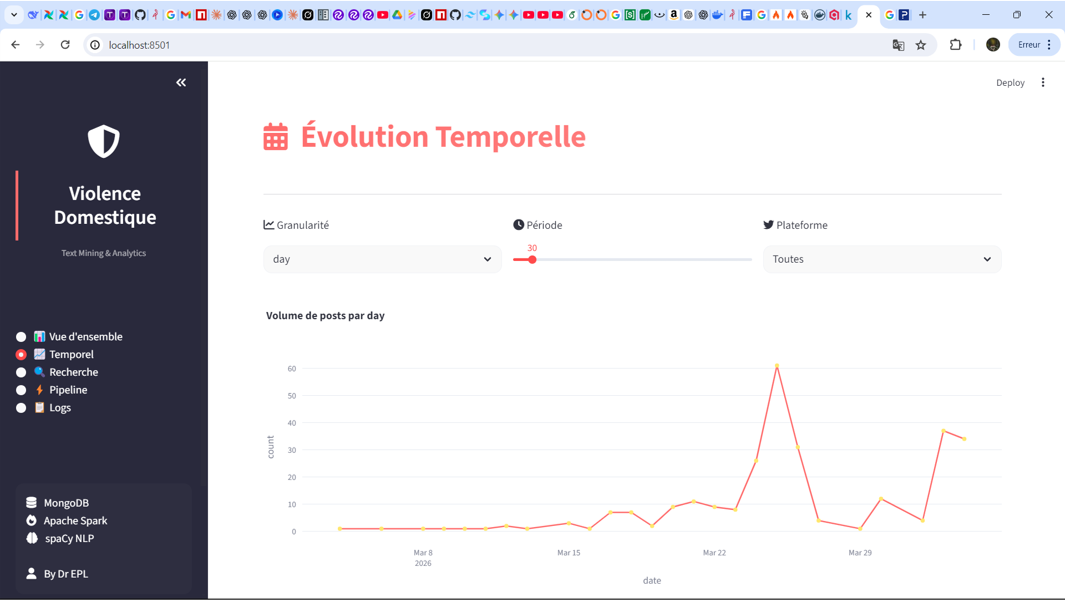
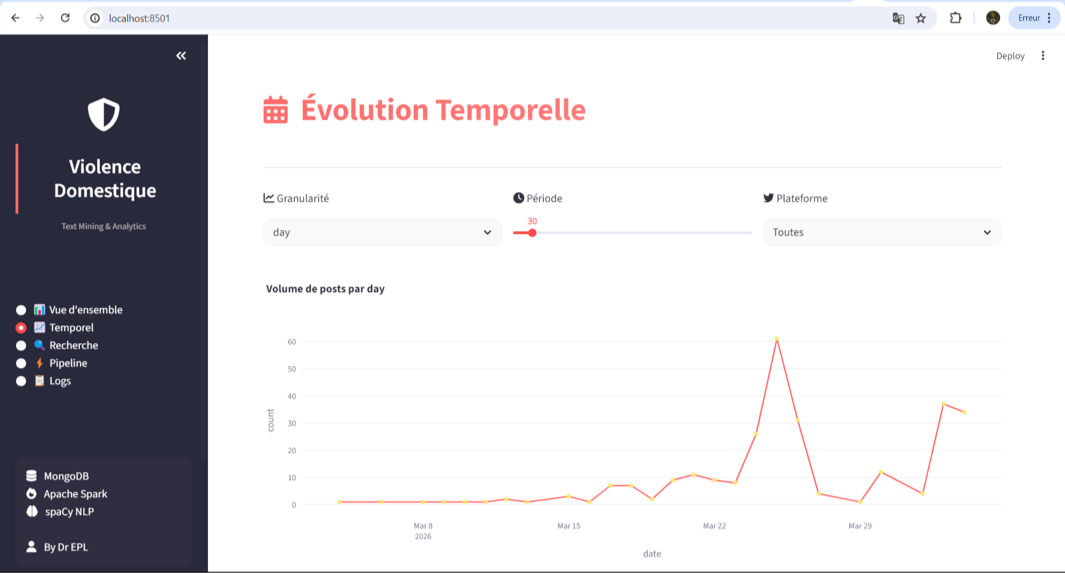
feat(ui): bilingual project pages, custom locale dropdown, hero polish
* pages/projets/[slug]: ship both locales in getStaticProps via rowToProjectBilingual so the toggle re-renders client side without a network round trip; prefetch alt locale on mount; drop teal gradient overlay; add radial halo behind the H1 for depth against animated backdrop
* Nav: replace native select with a custom dropdown (Globe icon, larger flags with ring, click outside and Escape to close, ChevronDown that rotates); preserve scroll on locale change
* CategoryBackdrop: widen mask from 45 to 78 percent so animations have breathing room; repaint 4 backdrops in light to dark grey palette with stroke and fill transitions instead of single category color
* lib/supabase: add rowToProjectBilingual helper
* assets: screenshots for systeme-rag-documents project

diff --git a/components/Nav.tsx b/components/Nav.tsx
@@ -1,9 +1,88 @@
-import React, { useState, useEffect } from 'react';
+import React, { useState, useEffect, useRef } from 'react';
 import Link from 'next/link';
 import { useRouter } from 'next/router';
-import { Menu, X, Globe } from 'lucide-react';
+import { Menu, X, Globe, ChevronDown } from 'lucide-react';
 import { useT } from '@/lib/useTranslation';
 import Flag from './Flag';
+
+const LOCALES = [
+  { code: 'fr', label: 'FR', flag: 'fr' as const },
+  { code: 'en', label: 'EN', flag: 'gb' as const },
+];
+
+function LocaleSelector({ current, onSelect }: { current: string; onSelect: (code: string) => void }) {
+  const [open, setOpen] = useState(false);
+  const ref = useRef<HTMLDivElement>(null);
+  const currentLocale = LOCALES.find(l => l.code === current) ?? LOCALES[0];
+
+  useEffect(() => {
+    if (!open) return;
+    const onDocDown = (e: MouseEvent) => {
+      if (ref.current && !ref.current.contains(e.target as Node)) setOpen(false);
+    };
+    const onKey = (e: KeyboardEvent) => {
+      if (e.key === 'Escape') setOpen(false);
+    };
+    document.addEventListener('mousedown', onDocDown);
+    document.addEventListener('keydown', onKey);
+    return () => {
+      document.removeEventListener('mousedown', onDocDown);
+      document.removeEventListener('keydown', onKey);
+    };
+  }, [open]);
+
+  return (
+    <div ref={ref} className="relative">
+      <button
+        type="button"
+        aria-haspopup="listbox"
+        aria-expanded={open}
+        aria-label="Change language"
+        onClick={() => setOpen(o => !o)}
+        className="inline-flex items-center gap-1.5 bg-[var(--bg-elevated)] border border-[var(--border)] rounded-lg pl-2 pr-2 py-1.5 text-xs font-bold text-[var(--text-primary)] hover:border-[var(--text-muted)] focus:outline-none focus:border-[var(--accent-teal)] transition-colors cursor-pointer"
+      >
+        <Globe size={14} className="text-[var(--text-muted)]" />
+        <Flag country={currentLocale.flag} className="w-6 h-4 shadow-sm ring-1 ring-black/30" />
+        <span>{currentLocale.label}</span>
+        <ChevronDown
+          size={12}
+          className={`text-[var(--text-muted)] transition-transform duration-200 ${open ? 'rotate-180' : ''}`}
+        />
+      </button>
+      {open && (
+        <ul
+          role="listbox"
+          className="absolute right-0 top-full mt-1 min-w-full bg-[var(--bg-elevated)] border border-[var(--border)] rounded-lg shadow-xl overflow-hidden z-50 animate-in fade-in slide-in-from-top-1 duration-150"
+        >
+          {LOCALES.map(l => {
+            const selected = l.code === current;
+            return (
+              <li key={l.code}>
+                <button
+                  type="button"
+                  role="option"
+                  aria-selected={selected}
+                  onClick={() => {
+                    onSelect(l.code);
+                    setOpen(false);
+                  }}
+                  className={`w-full flex items-center gap-2 px-3 py-2 text-xs font-bold transition-colors cursor-pointer ${
+                    selected
+                      ? 'bg-[var(--accent-teal)]/10 text-[var(--accent-teal)]'
+                      : 'text-[var(--text-primary)] hover:bg-[var(--border)]'
+                  }`}
+                >
+                  <Flag country={l.flag} className="w-7 h-5 shadow-sm ring-1 ring-black/30" />
+                  <span>{l.label}</span>
+                </button>
+              </li>
+            );
+          })}
+        </ul>
+      )}
+    </div>
+  );
+}
 
 export default function Nav() {
   const [isOpen, setIsOpen] = useState(false);
@@ -31,7 +110,7 @@ export default function Nav() {
   };
 
   const switchLocale = (locale: string) => {
-    router.push(router.asPath, router.asPath, { locale });
+    router.push(router.asPath, router.asPath, { locale, scroll: false });
   };
 
   return (
@@ -69,21 +148,7 @@ export default function Nav() {
           {/* Right side: locale switcher + contact */}
           <div className="hidden lg:flex items-center gap-3">
             {/* Locale Switcher */}
-            <div className="flex items-center gap-1 bg-[var(--bg-elevated)] border border-[var(--border)] rounded-lg p-1">
-              <Globe size={14} className="text-[var(--text-muted)] ml-1" />
-              <button
-                onClick={() => switchLocale('fr')}
-                className={`flex items-center gap-1.5 px-2 py-1 rounded text-xs font-bold transition-all ${router.locale === 'fr' ? 'bg-[var(--accent-teal)] text-[var(--bg-deep)]' : 'text-[var(--text-muted)] hover:text-[var(--text-primary)]'}`}
-              >
-                <Flag country="fr" className="w-4 h-3" /> FR
-              </button>
-              <button
-                onClick={() => switchLocale('en')}
-                className={`flex items-center gap-1.5 px-2 py-1 rounded text-xs font-bold transition-all ${router.locale === 'en' ? 'bg-[var(--accent-teal)] text-[var(--bg-deep)]' : 'text-[var(--text-muted)] hover:text-[var(--text-primary)]'}`}
-              >
-                <Flag country="gb" className="w-4 h-3" /> EN
-              </button>
-            </div>
+            <LocaleSelector current={router.locale ?? 'fr'} onSelect={switchLocale} />
             <Link href="/contact" className="btn-primary text-sm py-2 px-5">
               {t.nav.contact}
             </Link>
@@ -91,16 +156,7 @@ export default function Nav() {
 
           {/* Mobile menu button */}
           <div className="flex lg:hidden items-center gap-2">
-            <div className="flex items-center gap-1 bg-[var(--bg-elevated)] border border-[var(--border)] rounded-lg p-1">
-              <button onClick={() => switchLocale('fr')}
-                className={`flex items-center gap-1 px-2 py-1 rounded text-xs font-bold ${router.locale === 'fr' ? 'bg-[var(--accent-teal)] text-[var(--bg-deep)]' : 'text-[var(--text-muted)]'}`}>
-                <Flag country="fr" className="w-4 h-3" /> FR
-              </button>
-              <button onClick={() => switchLocale('en')}
-                className={`flex items-center gap-1 px-2 py-1 rounded text-xs font-bold ${router.locale === 'en' ? 'bg-[var(--accent-teal)] text-[var(--bg-deep)]' : 'text-[var(--text-muted)]'}`}>
-                <Flag country="gb" className="w-4 h-3" /> EN
-              </button>
-            </div>
+            <LocaleSelector current={router.locale ?? 'fr'} onSelect={switchLocale} />
             <button onClick={() => setIsOpen(!isOpen)} className="p-2 rounded-lg text-[var(--text-secondary)] hover:text-[var(--text-primary)] hover:bg-[var(--bg-elevated)] transition-colors">
               {isOpen ? <X size={22} /> : <Menu size={22} />}
             </button>

diff --git a/pages/projets/[slug].tsx b/pages/projets/[slug].tsx
@@ -4,7 +4,7 @@ import Head from 'next/head';
 import Link from 'next/link';
 import Image from 'next/image';
 import type { GetStaticPaths, GetStaticProps } from 'next';
-import { supabase, rowToProject, pickLocale } from '@/lib/supabase';
+import { supabase, rowToProjectBilingual, pickLocale } from '@/lib/supabase';
 import type { Project } from '@/data/projects';
 import {
   ArrowLeft, ArrowUpRight, Code2, Github, LayoutGrid, Lock, X,
@@ -18,11 +18,14 @@ import {
 import { Prose } from '@/components/Prose';
 import { TechChip } from '@/components/TechChip';
 import { CategoryBackdrop } from '@/components/CategoryBackdrop';
-import { GrainOverlay } from '@/components/GrainOverlay';
 import { useT } from '@/lib/useTranslation';
 import { useRouter } from 'next/router';
 
-interface ProjectDetailProps { project: Project }
+interface ProjectDetailProps {
+  // Both locales are shipped together so the client can switch language without
+  // re-fetching the page's static props (no perceived refresh on locale toggle).
+  bilingual: { fr: Project; en: Project };
+}
 
 export const getStaticPaths: GetStaticPaths = async () => {
   const { data } = await supabase.from('projects').select('slug');
@@ -32,11 +35,11 @@ export const getStaticPaths: GetStaticPaths = async () => {
   };
 };
 
-export const getStaticProps: GetStaticProps<ProjectDetailProps> = async ({ params, locale }) => {
+export const getStaticProps: GetStaticProps<ProjectDetailProps> = async ({ params }) => {
   const slug = params?.slug as string;
   const { data } = await supabase.from('projects').select('*').eq('slug', slug).single();
   if (!data) return { notFound: true };
-  return { props: { project: rowToProject(data, locale) }, revalidate: 60 };
+  return { props: { bilingual: rowToProjectBilingual(data) }, revalidate: 60 };
 };
 
 // Shared scroll-triggered entrance animation
@@ -80,10 +83,18 @@ const KPI_ACCENTS = [
   },
 ];
 
-export default function ProjectDetail({ project }: ProjectDetailProps) {
+export default function ProjectDetail({ bilingual }: ProjectDetailProps) {
   const t = useT();
   const router = useRouter();
-  const locale = router.locale ?? 'fr';
+  const locale = (router.locale ?? 'fr') as 'fr' | 'en';
+  const project = bilingual[locale] ?? bilingual.fr;
+
+  // Prefetch the alternate locale's variant once, so the first toggle is instant.
+  useEffect(() => {
+    const alt = locale === 'fr' ? 'en' : 'fr';
+    router.prefetch(router.pathname, router.asPath, { locale: alt });
+  }, [locale, router]);
+
   const screenshots = project.screenshots ?? [];
   const [currentIndex, setCurrentIndex] = useState(0);
   const [lightboxOpen, setLightboxOpen] = useState(false);
@@ -131,8 +142,6 @@ export default function ProjectDetail({ project }: ProjectDetailProps) {
         {/* HERO */}
         <div className="glass-dark border border-[var(--border)] rounded-3xl p-8 lg:p-12 mb-12 relative overflow-hidden">
           <CategoryBackdrop category={project.category} />
-          <div className="absolute top-0 right-0 w-full h-full bg-gradient-to-br from-[var(--accent-teal)]/5 to-transparent pointer-events-none" />
-          <GrainOverlay variant="grunge" opacity={0.3} />
           <div className="relative z-10 flex flex-col lg:flex-row gap-12">
             <div className="flex-1">
               <div className="flex flex-wrap items-center gap-3 mb-4">
@@ -149,7 +158,18 @@ export default function ProjectDetail({ project }: ProjectDetailProps) {
                   />
                 )}
               </div>
-              <h1 className="text-3xl md:text-4xl lg:text-5xl font-heading font-extrabold mb-6 leading-tight">{project.title}</h1>
+              <div className="relative isolate mb-6">
+                <div
+                  aria-hidden
+                  className="absolute inset-0 -mx-10 -my-4 -z-10 pointer-events-none"
+                  style={{
+                    background:
+                      'radial-gradient(ellipse 75% 110% at 25% 50%, rgba(0,0,0,0.55) 0%, rgba(0,0,0,0.25) 45%, transparent 75%)',
+                    filter: 'blur(18px)',
+                  }}
+                />
+                <h1 className="text-3xl md:text-4xl lg:text-5xl font-heading font-extrabold leading-tight">{project.title}</h1>
+              </div>
               <p className="text-xl text-[var(--text-secondary)] mb-8 leading-relaxed max-w-2xl">{project.shortDescription}</p>
               <div className="flex flex-wrap items-center gap-4">
                 {project.githubUrl && (

diff --git a/styles/globals.css b/styles/globals.css
@@ -82,7 +82,7 @@ code, pre {
   border-radius: 4px;
 }
 ::-webkit-scrollbar-thumb:hover {
-  background: var(--text-secondary);
+  background: var(--accent-teal-dark);
   /* accent-teal-dark */
 }
 
@@ -117,6 +117,61 @@ code, pre {
 
 .animate-border-glow {
   animation: border-glow 3s ease-in-out infinite;
+}
+
+@keyframes grain-shift {
+  0%, 100% { transform: translate(0, 0); }
+  10%      { transform: translate(-2%, -3%); }
+  20%      { transform: translate(-4%, 2%); }
+  30%      { transform: translate(2%, -3%); }
+  40%      { transform: translate(3%, 2%); }
+  50%      { transform: translate(-2%, 3%); }
+  60%      { transform: translate(-4%, 2%); }
+  70%      { transform: translate(3%, 2%); }
+  80%      { transform: translate(-2%, -2%); }
+  90%      { transform: translate(2%, 3%); }
+}
+
+.grain-anim {
+  animation: grain-shift 8s steps(10) infinite;
+  will-change: transform;
+}
+
+@keyframes organic-float {
+  0%, 100% { transform: translate(0, 0) scale(1); }
+  33%      { transform: translate(4px, -6px) scale(1.02); }
+  66%      { transform: translate(-3px, 5px) scale(0.99); }
+}
+
+.animate-organic {
+  animation: organic-float 14s ease-in-out infinite;
+  transform-origin: center;
+}
+
+@media (prefers-reduced-motion: reduce) {
+  .grain-anim, .animate-organic, .hero-avatar-blob, .hero-avatar-orbit { animation: none; }
+}
+
+/* ─── Hero avatar — organic morphing blob + slow orbit ─────────── */
+@keyframes blob-morph {
+  0%, 100% { border-radius: 58% 42% 51% 49% / 47% 55% 45% 53%; transform: rotate(0deg) scale(1); }
+  33%      { border-radius: 42% 58% 60% 40% / 55% 45% 55% 45%; transform: rotate(120deg) scale(1.04); }
+  66%      { border-radius: 53% 47% 38% 62% / 60% 40% 60% 40%; transform: rotate(240deg) scale(0.97); }
+}
+
+.hero-avatar-blob {
+  border-radius: 58% 42% 51% 49% / 47% 55% 45% 53%;
+  animation: blob-morph 18s ease-in-out infinite;
+  will-change: transform, border-radius;
+}
+
+@keyframes orbit-spin {
+  to { transform: rotate(360deg); }
+}
+
+.hero-avatar-orbit {
+  animation: orbit-spin 40s linear infinite;
+  will-change: transform;
 }
 
 /* ─── Utilities ────────────────────────────────────────────────── */

diff --git a/lib/supabase.ts b/lib/supabase.ts
@@ -159,6 +159,15 @@ export const TRANSLATABLE_JSONB_FIELDS = [
   'pipeline_steps',
 ] as const;
 
+// Returns both FR and EN snapshots of a project — used by pages that want to
+// switch locale client-side without re-fetching getStaticProps.
+export function rowToProjectBilingual(row: ProjectRow) {
+  return {
+    fr: rowToProject(row, 'fr'),
+    en: rowToProject(row, 'en'),
+  };
+}
+
 export function rowToProject(row: ProjectRow, locale: string = 'fr') {
   const isEn = locale === 'en';
   return {
